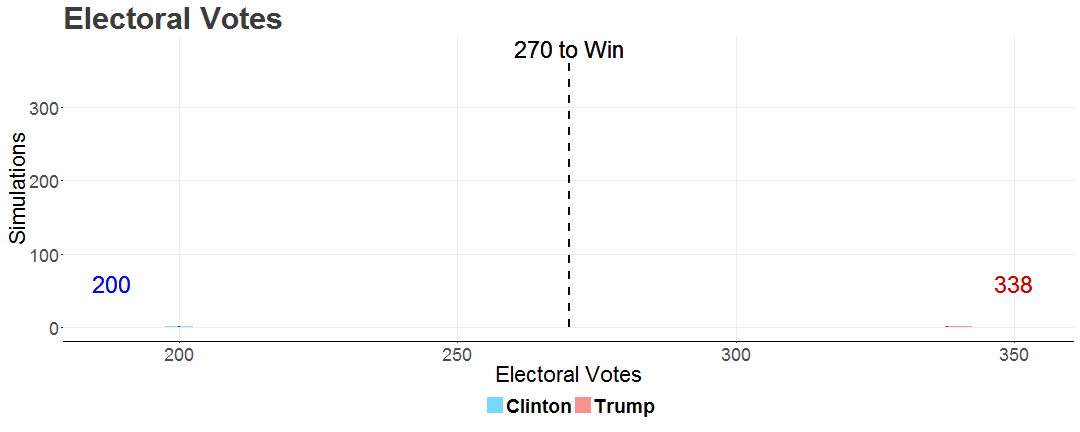
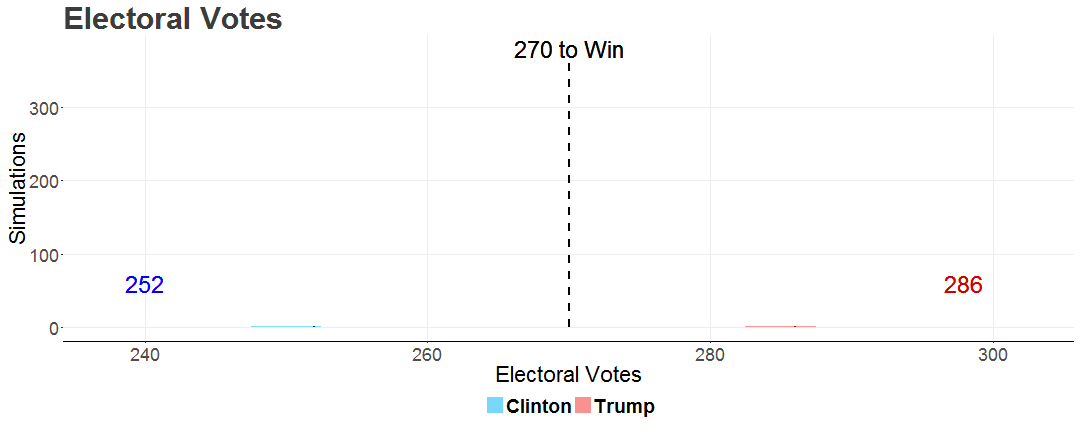
update

diff --git a/index.html b/index.html
@@ -174,7 +174,6 @@ table#t1 th {
   font-weight: bold;
 }
 </style>
-  <link rel="stylesheet" type="text/css" href="https://cdn.datatables.net/1.10.12/css/jquery.dataTables.min.css">
   <link rel="icon" href="C:\Users\Elliott\election_forecasts\E.png">
 
     <title>2016 General Election Forecasts</title>
@@ -199,34 +198,34 @@ table#t1 th {
             "fnRowCallback": function( nRow, aData, iDisplayIndex, iDisplayIndexFull ) {
   
                 if ( (aData[3].replace(/[\%,]/g, '') * 1) > 90 && (aData[3].replace(/[\%,\>]/g, '') * 1) <= 100 && aData[2]=='Trump' ) {
-                  $(nRow).css('background-color', '#B2182B');
+                  $(nRow).css('background-color', '#CD6A76');
                 }
                 if ( (aData[3].replace(/[\%,]/g, '') * 1) > 80 && (aData[3].replace(/[\%,\>]/g, '') * 1) <= 90 && aData[2]=='Trump' ) {
-                  $(nRow).css('background-color', '#F5A17E');	
+                  $(nRow).css('background-color', '#f7b397');	
                 }
                 if ( (aData[3].replace(/[\%,]/g, '') * 1) > 70 && (aData[3].replace(/[\%,\>]/g, '') * 1) <= 80 && aData[2]=='Trump' ) {
-                  $(nRow).css('background-color', '#FCC6AC');	
+                  $(nRow).css('background-color', '#fcd1bc');	
                 }
                 if ( (aData[3].replace(/[\%,]/g, '') * 1) > 60 && (aData[3].replace(/[\%,\>]/g, '') * 1) <= 70 && aData[2]=='Trump' ) {
-                  $(nRow).css('background-color', '#F4DDD0');	
+                  $(nRow).css('background-color', '#f6e3d9');	
                 }
                 if ( (aData[3].replace(/[\%,]/g, '') * 1) >= 50 && (aData[3].replace(/[\%,\>]/g, '') * 1) <= 60 && aData[2]=='Trump' ) {
-                  $(nRow).css('background-color', '#E2E2E2');	
+                  $(nRow).css('background-color', '#e7e7e7');	
                 }
                 if ( (aData[3].replace(/[\%,]/g, '') * 1) > 90 && (aData[3].replace(/[\%,\>]/g, '') * 1) <= 100 && aData[2]=='Clinton' ) {
-                  $(nRow).css('background-color', '#2F6FB1');	
+                  $(nRow).css('background-color', '#588bc0');	
                 }
                 if ( (aData[3].replace(/[\%,]/g, '') * 1) > 80 && (aData[3].replace(/[\%,\>]/g, '') * 1) <= 90 && aData[2]=='Clinton' ) {
-                  $(nRow).css('background-color', '#6EACD1');	
+                  $(nRow).css('background-color', '#8bbcda');	
                 }
                 if ( (aData[3].replace(/[\%,]/g, '') * 1) > 70 && (aData[3].replace(/[\%,\>]/g, '') * 1) <= 80 && aData[2]=='Clinton' ) {
-                  $(nRow).css('background-color', '#B7D5E7');	
+                  $(nRow).css('background-color', '#c5ddeb');	
                 }
                 if ( (aData[3].replace(/[\%,]/g, '') * 1) > 60 && (aData[3].replace(/[\%,\>]/g, '') * 1) <= 70 && aData[2]=='Clinton' ) {
-                  $(nRow).css('background-color', '#D4E4ED');	
+                  $(nRow).css('background-color', '#dce9f0');	
                 }
                 if ( (aData[3].replace(/[\%,]/g, '') * 1) >= 50 && (aData[3].replace(/[\%,\>]/g, '') * 1) <= 60 && aData[2]=='Clinton' ) {
-                  $(nRow).css('background-color', '#E2E2E2');	
+                  $(nRow).css('background-color', '#e7e7e7');	
                 }
             }
         });
@@ -309,7 +308,7 @@ table#t1 th {
 
       <div class="row">
         <div class="span12">
-          <p class="lead">Presidential elections are all about who can get to 270 electoral votes. After simulating the election ten-thousand times, the model predicts a <b>338-200 electoral win for Donald Trump</b>.</p>
+          <p class="lead">Presidential elections are all about who can get to 270 electoral votes. After simulating the election ten-thousand times, the model predicts a <b>286-252 electoral win for Donald Trump</b>.</p>
         </div>
       </div>
       
